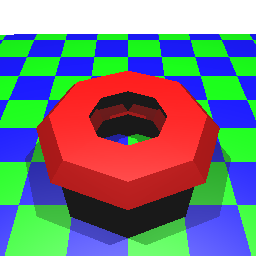
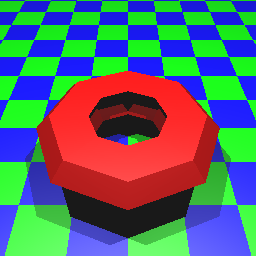
Fixed reflections

Changed region(s): [[0.0, 0.0, 1.0, 0.1562]]

diff --git a/src/comp557/a4/Scene.java b/src/comp557/a4/Scene.java
@@ -33,8 +33,18 @@ public class Scene {
     /** 
      * Default constructor.
      */
+    private ArrayList<Ray> rayStack = new ArrayList<Ray>();
+	private ArrayList<IntersectResult> resultStack = new ArrayList<IntersectResult>();
+	private ArrayList<Color4f> specularStack = new ArrayList<Color4f>();
+	private int stackPos;
     public Scene() {
     	this.render = new Render();
+    	for ( int i = 0; i < 5; i++ ) {
+    		rayStack.add(new Ray());
+    		resultStack.add(new IntersectResult());
+    		specularStack.add(new Color4f());
+    	}
+    	stackPos = 0;
     }
     
     /**
@@ -206,25 +216,41 @@ public class Scene {
     				c.add(temp);
 				} else {
 					//Glossy reflection
+					if ( stackPos == rayStack.size() ) return;
 					reflectionVector.scaleAdd(-2 * result.n.dot(ray.viewDirection), result.n, ray.viewDirection);
-					IntersectResult oldResult = new IntersectResult();
+					
+					IntersectResult oldResult = resultStack.get(stackPos);
 					oldResult.n.set(result.n);
 					oldResult.p.set(result.p);
 					oldResult.material = result.material;
-					Ray oldRay = new Ray();
+					
+					Ray oldRay = rayStack.get(stackPos);
 					oldRay.set(ray.eyePoint, ray.viewDirection);
+					
+					specularStack.get(stackPos).set(specular);
+					
+					stackPos++;
+					
 					result.p.scaleAdd(0.005, result.n, result.p);
 					ray.eyePoint.set(result.p);
 					ray.viewDirection.set(reflectionVector);
+					
 					specular.x *= result.material.specular.x;
 					specular.y *= result.material.specular.y;
 					specular.z *= result.material.specular.z;
 					specular.w *= result.material.specular.w;
+					
 					calculateRayColor(ray, c, specular);
+					
+					stackPos--;
+					
 					ray.set(oldRay.eyePoint, oldRay.viewDirection);
+					
 					result.n.set(oldResult.n);
 					result.p.set(oldResult.p);
 					result.material = oldResult.material;
+					
+					specular.set(specularStack.get(stackPos));
 				}
 			}
 			
@@ -236,6 +262,8 @@ public class Scene {
     	}
         
 	}
+	
+	
 	
 	private static Point3d lightPoint = new Point3d();
 	private static Vector3d tempVec = new Vector3d();
